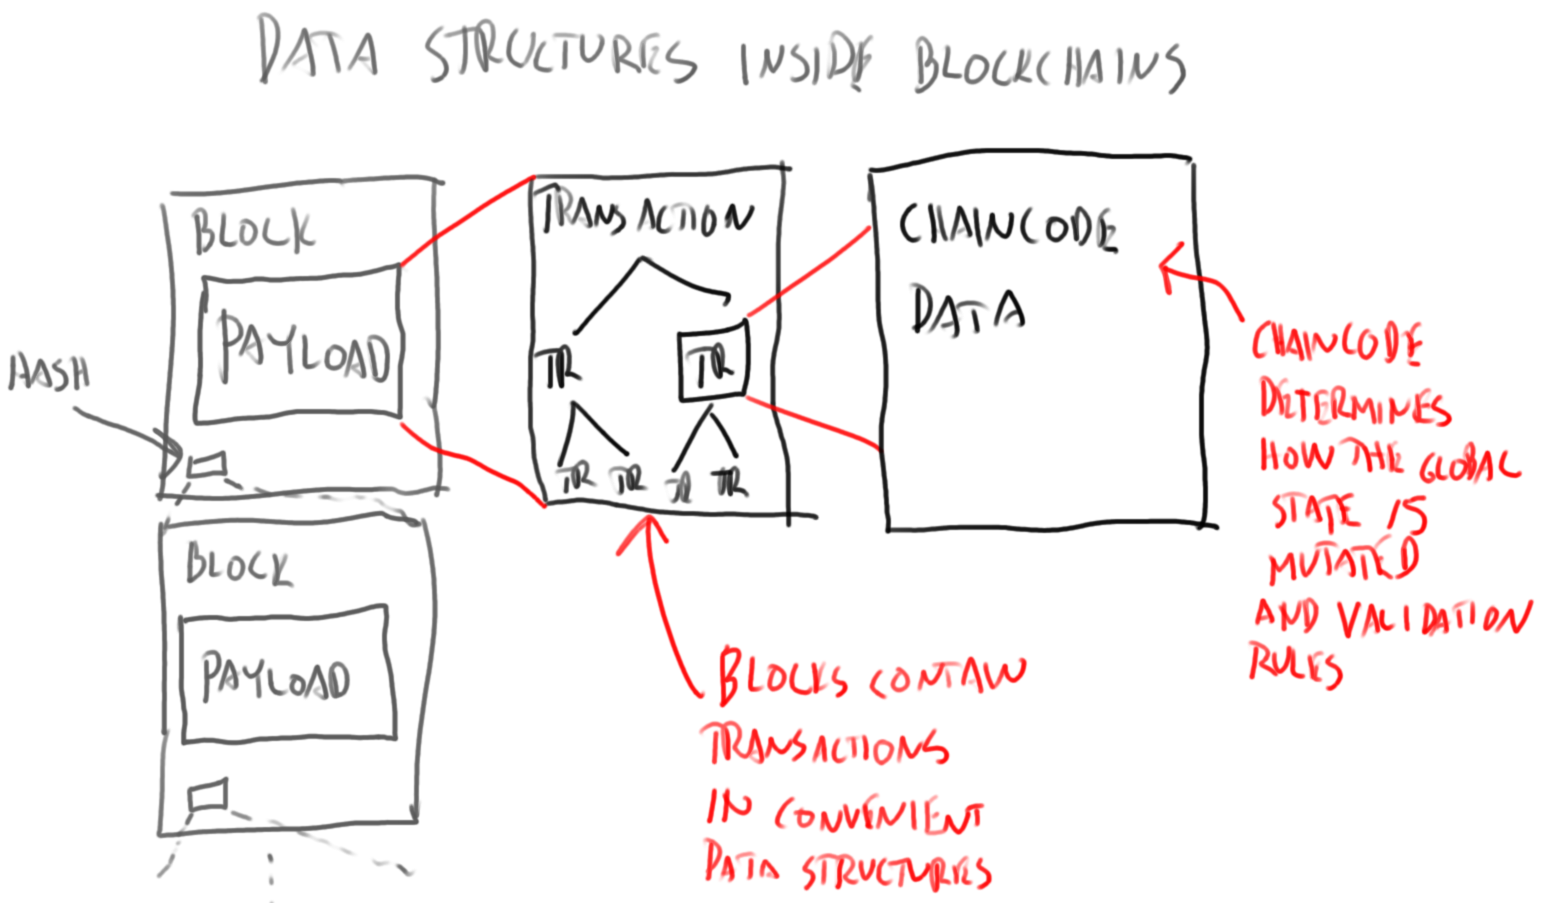
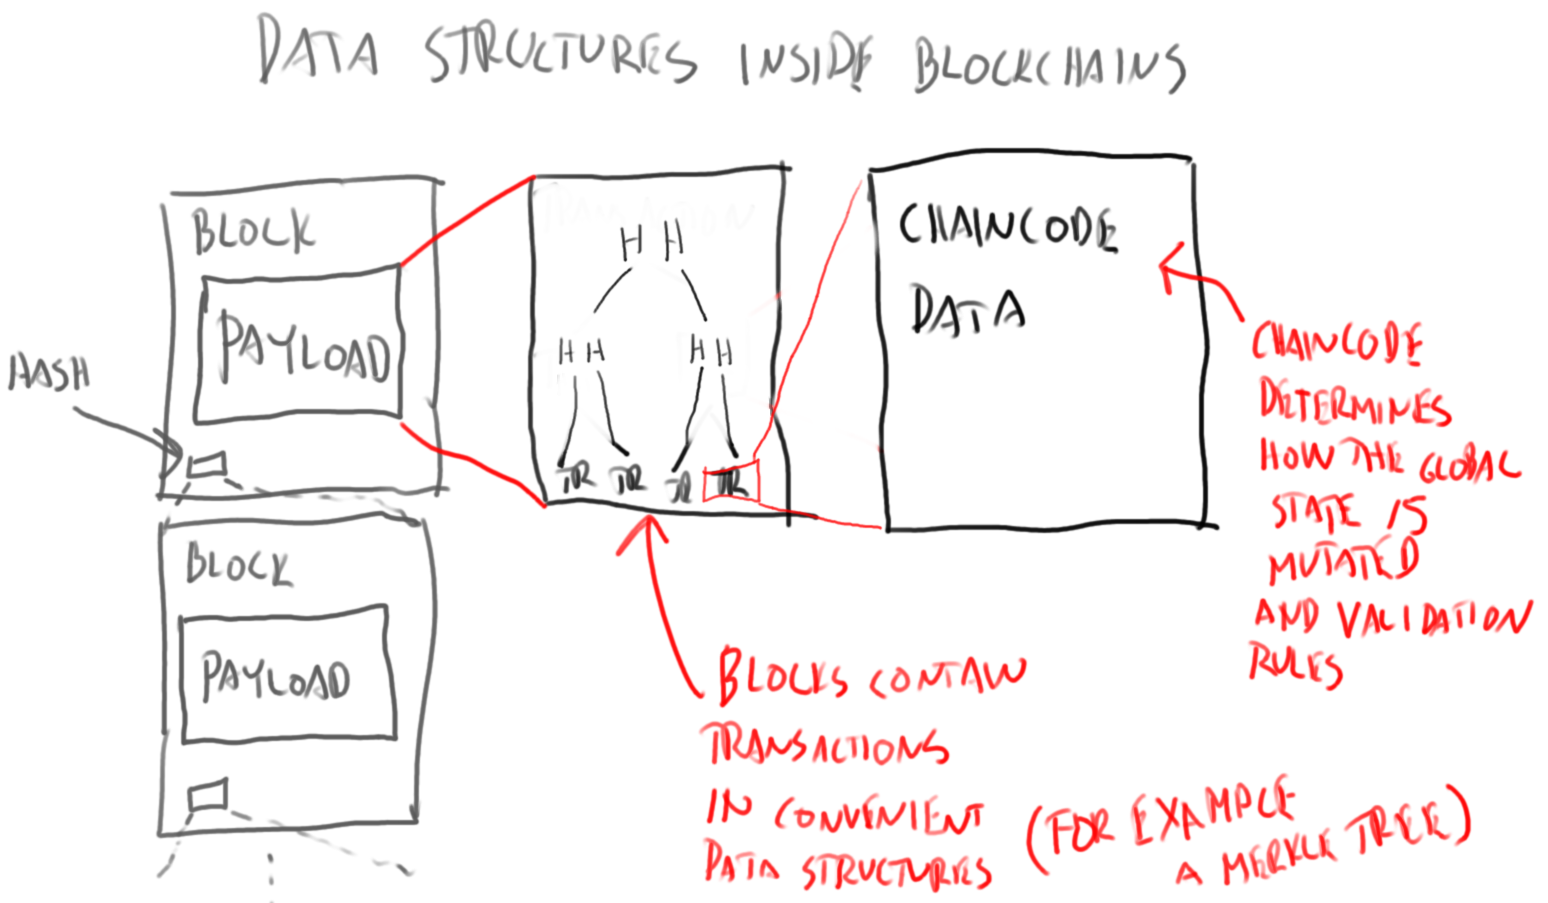
Fixed the Merkle tree graph.

diff --git a/blockchains.tex b/blockchains.tex
@@ -168,5 +168,12 @@
 
 \end{frame}
 
+\begin{frame}
+\frametitle{Links}
+\begin{itemize}
+ \item \href{https://d28rh4a8wq0iu5.cloudfront.net/bitcointech/readings/princeton\_bitcoin\_book.pdf?a=1}{Princeton course book: Bitcoin and Cryptocurrency Technologies}
+\end{itemize}
+\end{frame}
+
 \end{document}
 
